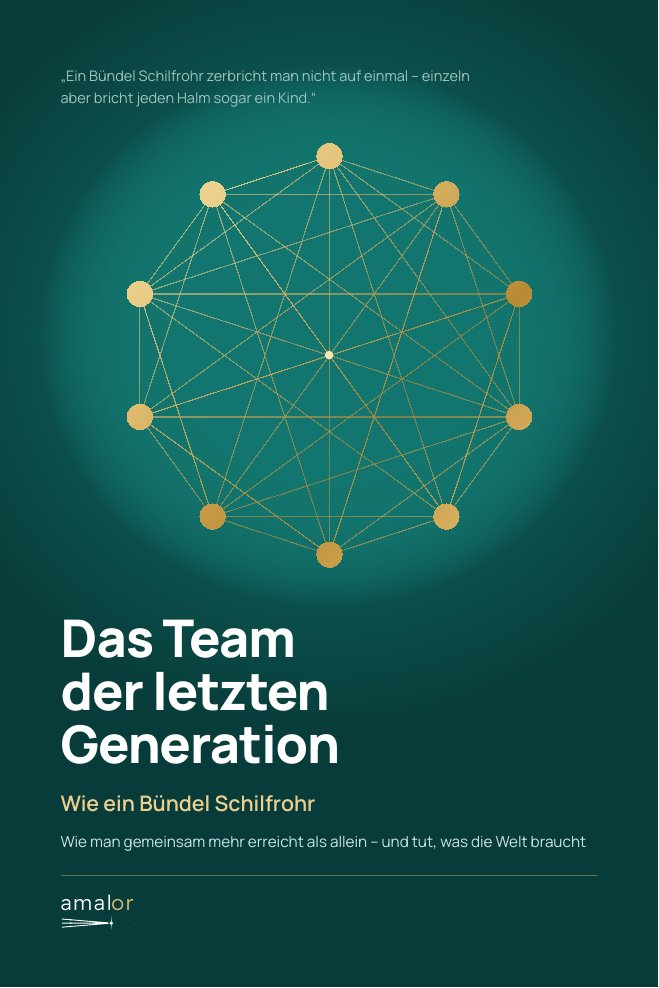
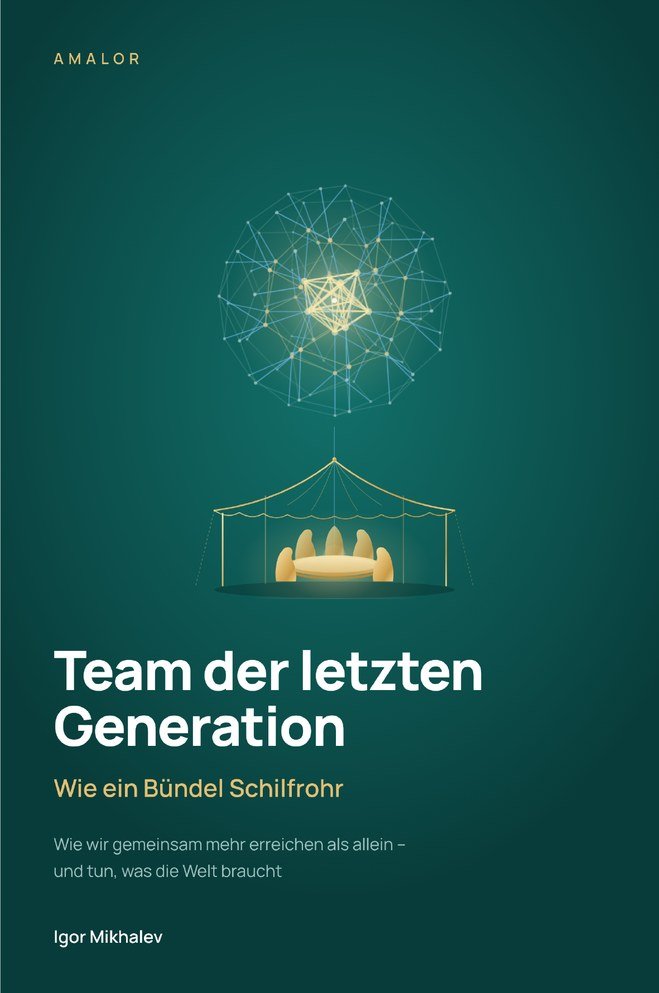
Book page: current DE cover, footer stays at bottom on short pages
- assets/book-cover-de.jpg from page 1 of the current book PDF
- body/main fill the window; the book hero takes the free height
- asset version 7

Claude-Session: https://claude.ai/code/session_01TyQH9DKEe2daNSCDnqKtRA

diff --git a/de/book/index.html b/de/book/index.html
@@ -21,7 +21,7 @@
 <link rel="icon" href="/favicon.svg" type="image/svg+xml">
 <link rel="apple-touch-icon" href="/apple-touch-icon.png">
 <link rel="stylesheet" href="/assets/fonts.css">
-<link rel="stylesheet" href="/assets/chrome.css?v=6">
+<link rel="stylesheet" href="/assets/chrome.css?v=7">
 <style>
 /* Layout: one reading column on warm ivory; the book cover's deep green and AMALOR gold appear as accents, never as the ground. Single light look. */
 :root{
@@ -327,7 +327,7 @@ section.home-doors{padding-block:40px 20px;border-top:0}
 .cards3 h3{margin:0 0 8px;font-size:18px}.cards3 p{margin:0;color:#4A6563;font-size:15px}
 @media (max-width:760px){.cards3{grid-template-columns:1fr}}
 </style>
-<link rel="stylesheet" href="/assets/team.css?v=6">
+<link rel="stylesheet" href="/assets/team.css?v=7">
 </head>
 <body>
 <div class="progress" id="progress" aria-hidden="true"></div>
@@ -369,7 +369,7 @@ section.home-doors{padding-block:40px 20px;border-top:0}
 <main class="page-book">
 <section class="book">
 <div class="wrap in">
-  <img src="../../assets/book-cover-de.jpg" width="659" height="988" alt="Cover des Buches „Das Team der letzten Generation. Wie ein Bündel Schilfrohr“">
+  <img src="../../assets/book-cover-de.jpg" width="659" height="993" alt="Cover des Buches „Team der letzten Generation. Wie ein Bündel Schilfrohr“">
   <div class="stack">
     <p class="eyebrow">Buch · bald</p>
     <h1>Team der letzten Generation</h1>
@@ -430,6 +430,6 @@ document.querySelectorAll('form[data-form]').forEach(form => {
   function fail(msg, el) { err.textContent = msg; if (el) el.focus(); }
 });
 </script>
-<script src="/assets/chrome.js?v=6" defer></script>
+<script src="/assets/chrome.js?v=7" defer></script>
 </body>
 </html>

diff --git a/book/index.html b/book/index.html
@@ -21,7 +21,7 @@
 <link rel="icon" href="/favicon.svg" type="image/svg+xml">
 <link rel="apple-touch-icon" href="/apple-touch-icon.png">
 <link rel="stylesheet" href="/assets/fonts.css">
-<link rel="stylesheet" href="/assets/chrome.css?v=6">
+<link rel="stylesheet" href="/assets/chrome.css?v=7">
 <style>
 /* Layout: one reading column on warm ivory; the book cover's deep green and AMALOR gold appear as accents, never as the ground. Single light look. */
 :root{
@@ -327,7 +327,7 @@ section.home-doors{padding-block:40px 20px;border-top:0}
 .cards3 h3{margin:0 0 8px;font-size:18px}.cards3 p{margin:0;color:#4A6563;font-size:15px}
 @media (max-width:760px){.cards3{grid-template-columns:1fr}}
 </style>
-<link rel="stylesheet" href="/assets/team.css?v=6">
+<link rel="stylesheet" href="/assets/team.css?v=7">
 </head>
 <body>
 <div class="progress" id="progress" aria-hidden="true"></div>
@@ -430,6 +430,6 @@ document.querySelectorAll('form[data-form]').forEach(form => {
   function fail(msg, el) { err.textContent = msg; if (el) el.focus(); }
 });
 </script>
-<script src="/assets/chrome.js?v=6" defer></script>
+<script src="/assets/chrome.js?v=7" defer></script>
 </body>
 </html>

diff --git a/clients/index.html b/clients/index.html
@@ -21,7 +21,7 @@
 <link rel="icon" href="/favicon.svg" type="image/svg+xml">
 <link rel="apple-touch-icon" href="/apple-touch-icon.png">
 <link rel="stylesheet" href="/assets/fonts.css">
-<link rel="stylesheet" href="/assets/chrome.css?v=6">
+<link rel="stylesheet" href="/assets/chrome.css?v=7">
 <style>
 /* Layout: one reading column on warm ivory; the book cover's deep green and AMALOR gold appear as accents, never as the ground. Single light look. */
 :root{
@@ -327,7 +327,7 @@ section.home-doors{padding-block:40px 20px;border-top:0}
 .cards3 h3{margin:0 0 8px;font-size:18px}.cards3 p{margin:0;color:#4A6563;font-size:15px}
 @media (max-width:760px){.cards3{grid-template-columns:1fr}}
 </style>
-<link rel="stylesheet" href="/assets/team.css?v=6">
+<link rel="stylesheet" href="/assets/team.css?v=7">
 </head>
 <body>
 <div class="progress" id="progress" aria-hidden="true"></div>
@@ -552,6 +552,6 @@ document.querySelectorAll('form[data-form]').forEach(form => {
   function fail(msg, el) { err.textContent = msg; if (el) el.focus(); }
 });
 </script>
-<script src="/assets/chrome.js?v=6" defer></script>
+<script src="/assets/chrome.js?v=7" defer></script>
 </body>
 </html>

diff --git a/de/clients/index.html b/de/clients/index.html
@@ -21,7 +21,7 @@
 <link rel="icon" href="/favicon.svg" type="image/svg+xml">
 <link rel="apple-touch-icon" href="/apple-touch-icon.png">
 <link rel="stylesheet" href="/assets/fonts.css">
-<link rel="stylesheet" href="/assets/chrome.css?v=6">
+<link rel="stylesheet" href="/assets/chrome.css?v=7">
 <style>
 /* Layout: one reading column on warm ivory; the book cover's deep green and AMALOR gold appear as accents, never as the ground. Single light look. */
 :root{
@@ -327,7 +327,7 @@ section.home-doors{padding-block:40px 20px;border-top:0}
 .cards3 h3{margin:0 0 8px;font-size:18px}.cards3 p{margin:0;color:#4A6563;font-size:15px}
 @media (max-width:760px){.cards3{grid-template-columns:1fr}}
 </style>
-<link rel="stylesheet" href="/assets/team.css?v=6">
+<link rel="stylesheet" href="/assets/team.css?v=7">
 </head>
 <body>
 <div class="progress" id="progress" aria-hidden="true"></div>
@@ -565,6 +565,6 @@ document.querySelectorAll('form[data-form]').forEach(form => {
   function fail(msg, el) { err.textContent = msg; if (el) el.focus(); }
 });
 </script>
-<script src="/assets/chrome.js?v=6" defer></script>
+<script src="/assets/chrome.js?v=7" defer></script>
 </body>
 </html>

diff --git a/de/guides/index.html b/de/guides/index.html
@@ -21,7 +21,7 @@
 <link rel="icon" href="/favicon.svg" type="image/svg+xml">
 <link rel="apple-touch-icon" href="/apple-touch-icon.png">
 <link rel="stylesheet" href="/assets/fonts.css">
-<link rel="stylesheet" href="/assets/chrome.css?v=6">
+<link rel="stylesheet" href="/assets/chrome.css?v=7">
 <style>
 /* Layout: one reading column on warm ivory; the book cover's deep green and AMALOR gold appear as accents, never as the ground. Single light look. */
 :root{
@@ -327,7 +327,7 @@ section.home-doors{padding-block:40px 20px;border-top:0}
 .cards3 h3{margin:0 0 8px;font-size:18px}.cards3 p{margin:0;color:#4A6563;font-size:15px}
 @media (max-width:760px){.cards3{grid-template-columns:1fr}}
 </style>
-<link rel="stylesheet" href="/assets/team.css?v=6">
+<link rel="stylesheet" href="/assets/team.css?v=7">
 </head>
 <body>
 <div class="progress" id="progress" aria-hidden="true"></div>
@@ -480,6 +480,6 @@ document.querySelectorAll('form[data-form]').forEach(form => {
   function fail(msg, el) { err.textContent = msg; if (el) el.focus(); }
 });
 </script>
-<script src="/assets/chrome.js?v=6" defer></script>
+<script src="/assets/chrome.js?v=7" defer></script>
 </body>
 </html>

diff --git a/de/index.html b/de/index.html
@@ -21,7 +21,7 @@
 <link rel="icon" href="/favicon.svg" type="image/svg+xml">
 <link rel="apple-touch-icon" href="/apple-touch-icon.png">
 <link rel="stylesheet" href="/assets/fonts.css">
-<link rel="stylesheet" href="/assets/chrome.css?v=6">
+<link rel="stylesheet" href="/assets/chrome.css?v=7">
 <style>
 /* Layout: one reading column on warm ivory; the book cover's deep green and AMALOR gold appear as accents, never as the ground. Single light look. */
 :root{
@@ -327,7 +327,7 @@ section.home-doors{padding-block:40px 20px;border-top:0}
 .cards3 h3{margin:0 0 8px;font-size:18px}.cards3 p{margin:0;color:#4A6563;font-size:15px}
 @media (max-width:760px){.cards3{grid-template-columns:1fr}}
 </style>
-<link rel="stylesheet" href="/assets/team.css?v=6">
+<link rel="stylesheet" href="/assets/team.css?v=7">
 </head>
 <body>
 <div class="progress" id="progress" aria-hidden="true"></div>
@@ -538,6 +538,6 @@ document.querySelectorAll('form[data-form]').forEach(form => {
   function fail(msg, el) { err.textContent = msg; if (el) el.focus(); }
 });
 </script>
-<script src="/assets/chrome.js?v=6" defer></script>
+<script src="/assets/chrome.js?v=7" defer></script>
 </body>
 </html>

diff --git a/de/investors/index.html b/de/investors/index.html
@@ -21,7 +21,7 @@
 <link rel="icon" href="/favicon.svg" type="image/svg+xml">
 <link rel="apple-touch-icon" href="/apple-touch-icon.png">
 <link rel="stylesheet" href="/assets/fonts.css">
-<link rel="stylesheet" href="/assets/chrome.css?v=6">
+<link rel="stylesheet" href="/assets/chrome.css?v=7">
 <style>
 /* Layout: one reading column on warm ivory; the book cover's deep green and AMALOR gold appear as accents, never as the ground. Single light look. */
 :root{
@@ -327,7 +327,7 @@ section.home-doors{padding-block:40px 20px;border-top:0}
 .cards3 h3{margin:0 0 8px;font-size:18px}.cards3 p{margin:0;color:#4A6563;font-size:15px}
 @media (max-width:760px){.cards3{grid-template-columns:1fr}}
 </style>
-<link rel="stylesheet" href="/assets/team.css?v=6">
+<link rel="stylesheet" href="/assets/team.css?v=7">
 </head>
 <body>
 <div class="progress" id="progress" aria-hidden="true"></div>
@@ -478,6 +478,6 @@ document.querySelectorAll('form[data-form]').forEach(form => {
   function fail(msg, el) { err.textContent = msg; if (el) el.focus(); }
 });
 </script>
-<script src="/assets/chrome.js?v=6" defer></script>
+<script src="/assets/chrome.js?v=7" defer></script>
 </body>
 </html>

diff --git a/de/members/index.html b/de/members/index.html
@@ -21,7 +21,7 @@
 <link rel="icon" href="/favicon.svg" type="image/svg+xml">
 <link rel="apple-touch-icon" href="/apple-touch-icon.png">
 <link rel="stylesheet" href="/assets/fonts.css">
-<link rel="stylesheet" href="/assets/chrome.css?v=6">
+<link rel="stylesheet" href="/assets/chrome.css?v=7">
 <style>
 /* Layout: one reading column on warm ivory; the book cover's deep green and AMALOR gold appear as accents, never as the ground. Single light look. */
 :root{
@@ -327,7 +327,7 @@ section.home-doors{padding-block:40px 20px;border-top:0}
 .cards3 h3{margin:0 0 8px;font-size:18px}.cards3 p{margin:0;color:#4A6563;font-size:15px}
 @media (max-width:760px){.cards3{grid-template-columns:1fr}}
 </style>
-<link rel="stylesheet" href="/assets/team.css?v=6">
+<link rel="stylesheet" href="/assets/team.css?v=7">
 </head>
 <body>
 <div class="progress" id="progress" aria-hidden="true"></div>
@@ -516,6 +516,6 @@ document.querySelectorAll('form[data-form]').forEach(form => {
   function fail(msg, el) { err.textContent = msg; if (el) el.focus(); }
 });
 </script>
-<script src="/assets/chrome.js?v=6" defer></script>
+<script src="/assets/chrome.js?v=7" defer></script>
 </body>
 </html>

diff --git a/de/principles/index.html b/de/principles/index.html
@@ -21,7 +21,7 @@
 <link rel="icon" href="/favicon.svg" type="image/svg+xml">
 <link rel="apple-touch-icon" href="/apple-touch-icon.png">
 <link rel="stylesheet" href="/assets/fonts.css">
-<link rel="stylesheet" href="/assets/chrome.css?v=6">
+<link rel="stylesheet" href="/assets/chrome.css?v=7">
 <style>
 /* Layout: one reading column on warm ivory; the book cover's deep green and AMALOR gold appear as accents, never as the ground. Single light look. */
 :root{
@@ -327,7 +327,7 @@ section.home-doors{padding-block:40px 20px;border-top:0}
 .cards3 h3{margin:0 0 8px;font-size:18px}.cards3 p{margin:0;color:#4A6563;font-size:15px}
 @media (max-width:760px){.cards3{grid-template-columns:1fr}}
 </style>
-<link rel="stylesheet" href="/assets/team.css?v=6">
+<link rel="stylesheet" href="/assets/team.css?v=7">
 </head>
 <body>
 <div class="progress" id="progress" aria-hidden="true"></div>
@@ -469,6 +469,6 @@ document.querySelectorAll('form[data-form]').forEach(form => {
   function fail(msg, el) { err.textContent = msg; if (el) el.focus(); }
 });
 </script>
-<script src="/assets/chrome.js?v=6" defer></script>
+<script src="/assets/chrome.js?v=7" defer></script>
 </body>
 </html>

diff --git a/de/team/index.html b/de/team/index.html
@@ -21,7 +21,7 @@
 <link rel="icon" href="/favicon.svg" type="image/svg+xml">
 <link rel="apple-touch-icon" href="/apple-touch-icon.png">
 <link rel="stylesheet" href="/assets/fonts.css">
-<link rel="stylesheet" href="/assets/chrome.css?v=6">
+<link rel="stylesheet" href="/assets/chrome.css?v=7">
 <style>
 /* Layout: one reading column on warm ivory; the book cover's deep green and AMALOR gold appear as accents, never as the ground. Single light look. */
 :root{
@@ -327,7 +327,7 @@ section.home-doors{padding-block:40px 20px;border-top:0}
 .cards3 h3{margin:0 0 8px;font-size:18px}.cards3 p{margin:0;color:#4A6563;font-size:15px}
 @media (max-width:760px){.cards3{grid-template-columns:1fr}}
 </style>
-<link rel="stylesheet" href="/assets/team.css?v=6">
+<link rel="stylesheet" href="/assets/team.css?v=7">
 </head>
 <body>
 <div class="progress" id="progress" aria-hidden="true"></div>
@@ -494,6 +494,6 @@ document.querySelectorAll('form[data-form]').forEach(form => {
   function fail(msg, el) { err.textContent = msg; if (el) el.focus(); }
 });
 </script>
-<script src="/assets/chrome.js?v=6" defer></script>
+<script src="/assets/chrome.js?v=7" defer></script>
 </body>
 </html>

diff --git a/en/book/index.html b/en/book/index.html
@@ -21,7 +21,7 @@
 <link rel="icon" href="/favicon.svg" type="image/svg+xml">
 <link rel="apple-touch-icon" href="/apple-touch-icon.png">
 <link rel="stylesheet" href="/assets/fonts.css">
-<link rel="stylesheet" href="/assets/chrome.css?v=6">
+<link rel="stylesheet" href="/assets/chrome.css?v=7">
 <style>
 /* Layout: one reading column on warm ivory; the book cover's deep green and AMALOR gold appear as accents, never as the ground. Single light look. */
 :root{
@@ -327,7 +327,7 @@ section.home-doors{padding-block:40px 20px;border-top:0}
 .cards3 h3{margin:0 0 8px;font-size:18px}.cards3 p{margin:0;color:#4A6563;font-size:15px}
 @media (max-width:760px){.cards3{grid-template-columns:1fr}}
 </style>
-<link rel="stylesheet" href="/assets/team.css?v=6">
+<link rel="stylesheet" href="/assets/team.css?v=7">
 </head>
 <body>
 <div class="progress" id="progress" aria-hidden="true"></div>
@@ -430,6 +430,6 @@ document.querySelectorAll('form[data-form]').forEach(form => {
   function fail(msg, el) { err.textContent = msg; if (el) el.focus(); }
 });
 </script>
-<script src="/assets/chrome.js?v=6" defer></script>
+<script src="/assets/chrome.js?v=7" defer></script>
 </body>
 </html>

diff --git a/en/clients/index.html b/en/clients/index.html
@@ -21,7 +21,7 @@
 <link rel="icon" href="/favicon.svg" type="image/svg+xml">
 <link rel="apple-touch-icon" href="/apple-touch-icon.png">
 <link rel="stylesheet" href="/assets/fonts.css">
-<link rel="stylesheet" href="/assets/chrome.css?v=6">
+<link rel="stylesheet" href="/assets/chrome.css?v=7">
 <style>
 /* Layout: one reading column on warm ivory; the book cover's deep green and AMALOR gold appear as accents, never as the ground. Single light look. */
 :root{
@@ -327,7 +327,7 @@ section.home-doors{padding-block:40px 20px;border-top:0}
 .cards3 h3{margin:0 0 8px;font-size:18px}.cards3 p{margin:0;color:#4A6563;font-size:15px}
 @media (max-width:760px){.cards3{grid-template-columns:1fr}}
 </style>
-<link rel="stylesheet" href="/assets/team.css?v=6">
+<link rel="stylesheet" href="/assets/team.css?v=7">
 </head>
 <body>
 <div class="progress" id="progress" aria-hidden="true"></div>
@@ -552,6 +552,6 @@ document.querySelectorAll('form[data-form]').forEach(form => {
   function fail(msg, el) { err.textContent = msg; if (el) el.focus(); }
 });
 </script>
-<script src="/assets/chrome.js?v=6" defer></script>
+<script src="/assets/chrome.js?v=7" defer></script>
 </body>
 </html>
